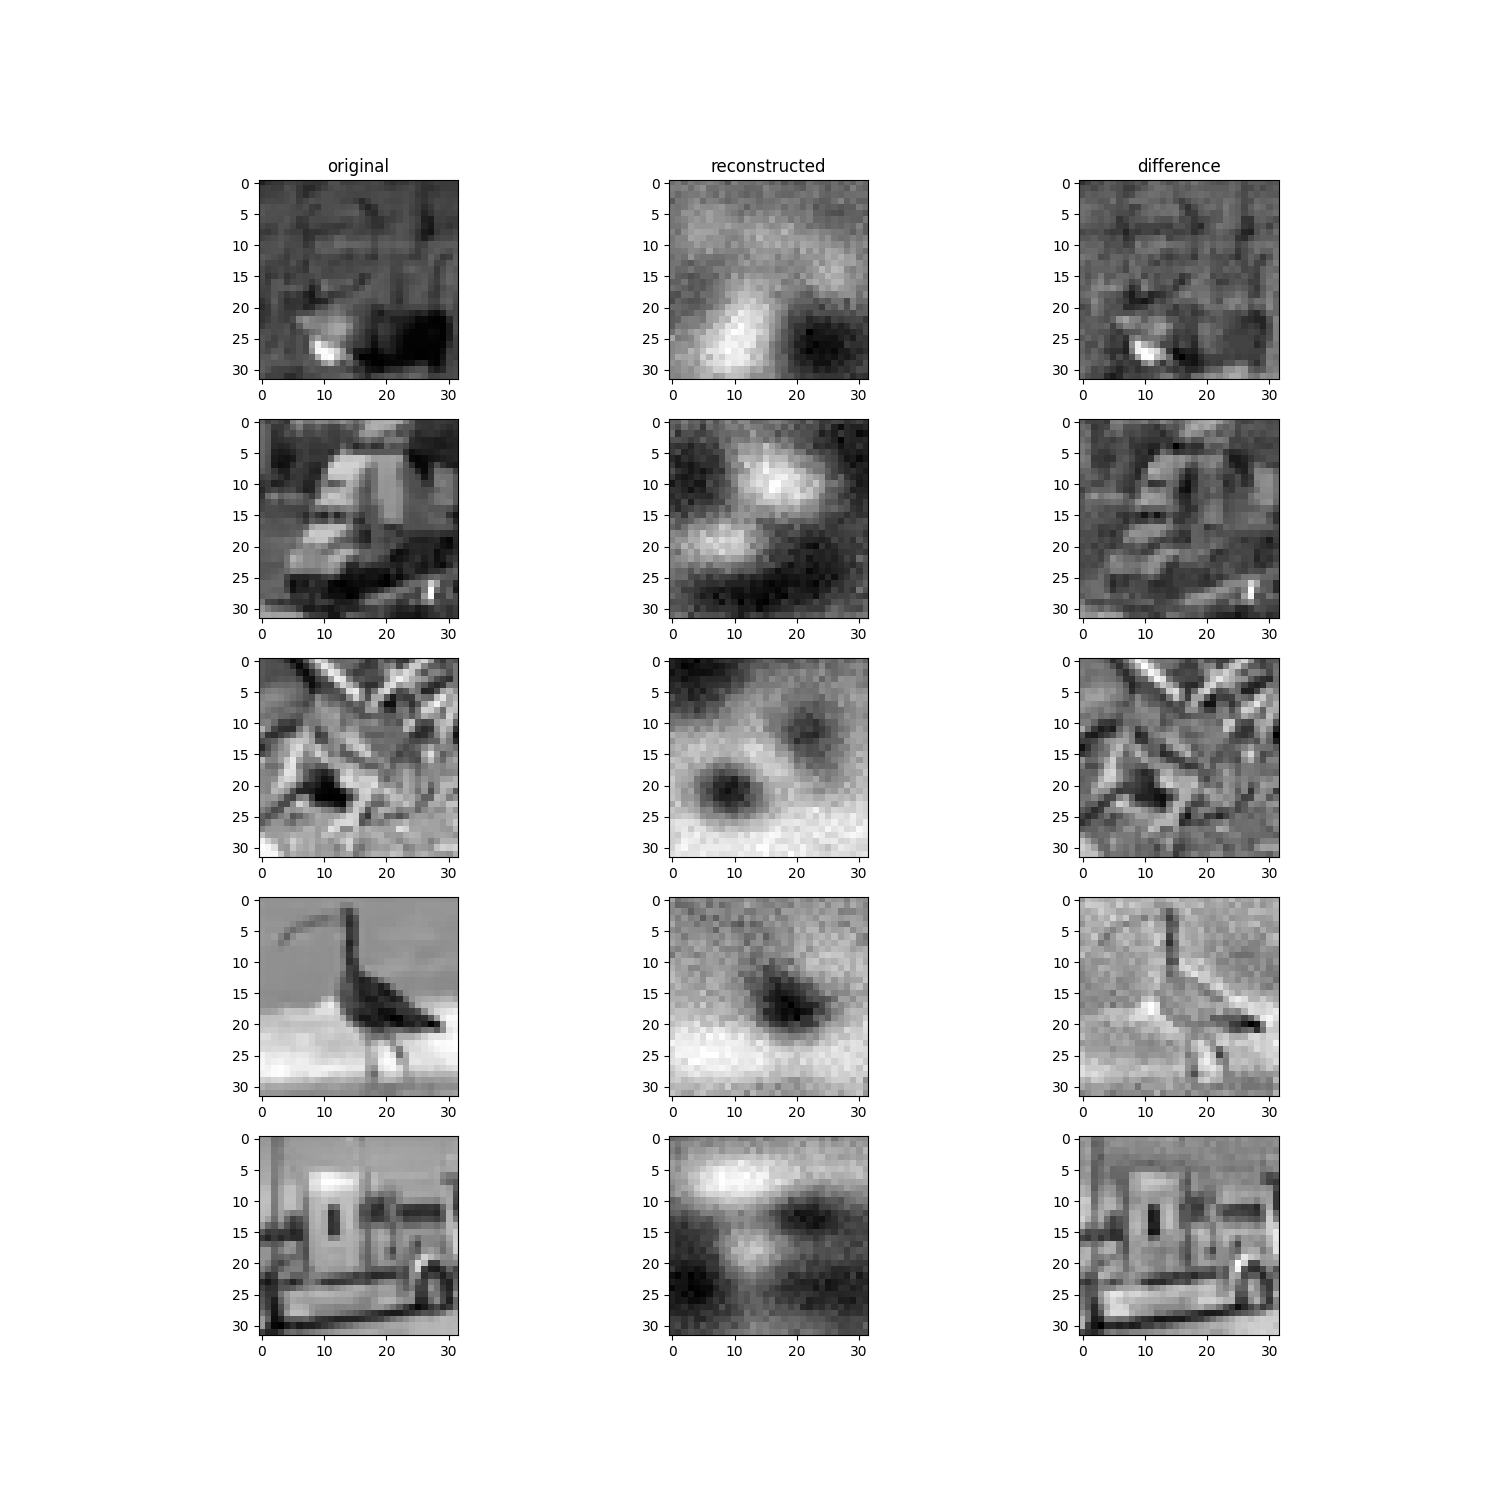
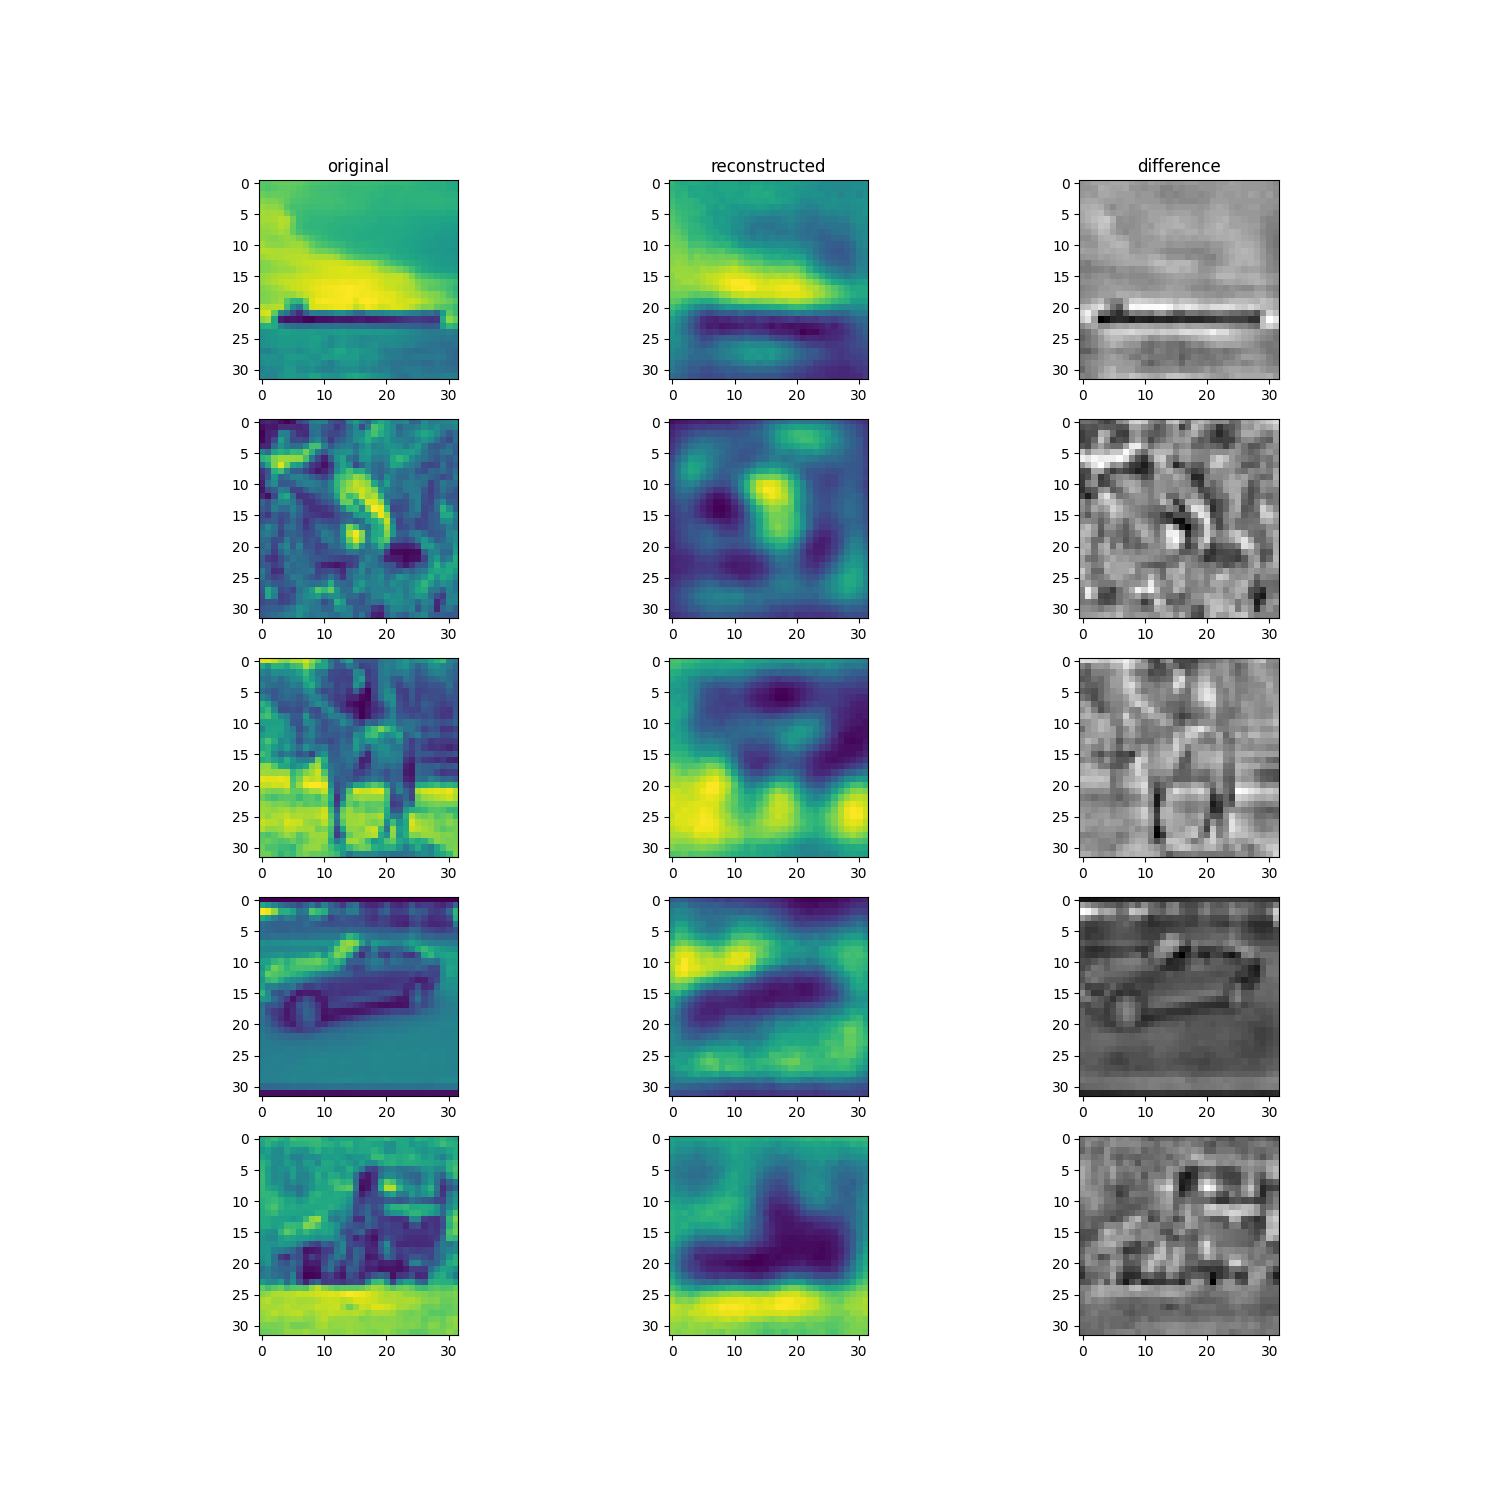
zscore, different ds differentiation

Changed region(s): [[0.4293, 0.1227, 0.5827, 0.8893], [0.1533, 0.1227, 0.3067, 0.8893], [0.7053, 0.1227, 0.8587, 0.8893]]

diff --git a/simple_autoencoder/train.py b/simple_autoencoder/train.py
@@ -10,17 +10,18 @@ import jax.numpy as jnp
 import optax
 import numpy as np
 from tqdm import tqdm
-from nsd_data import get_train_test_datasets, get_batches, get_train_test_mnist, get_train_test_cifar100, get_train_test_stl
+from nsd_data import get_train_test_datasets, get_batches, get_train_test_mnist, get_train_test_cifar10
 from visualisations import plot_losses, plot_original_reconstruction
 from flax.training import train_state
 from typing import Any
 
+
 class TrainState(train_state.TrainState):
     batch_stats: Any
 
-def create_train_state(key, init_data, latent_dim, fmri_voxels, learning_rate):
+def create_train_state(key, init_data, latent_dim, fmri_voxels, ds, learning_rate):
     """Creates initial `TrainState`."""
-    model_cls = models.model(latent_dim, fmri_voxels)
+    model_cls = models.model(latent_dim, fmri_voxels, dataset=ds)
     variables = model_cls.init(
         {'params': key, 'dropout': key},
         init_data,
@@ -38,7 +39,7 @@ def compute_metrics(recon_x, x, latent_vec ):
     mse_loss = jnp.mean(jnp.square(recon_x - x))
     return {'loss': mse_loss }
 
-def train_step(state, batch, key, latent_dim, l1_coefficient=0.01):
+def train_step(state, batch, key, latent_dim, ds, l1_coefficient=0.01):
     key, dropout_rng = jax.random.split(key)
     """Performs a single training step updating model parameters based on batch data.
 
@@ -53,10 +54,9 @@ def train_step(state, batch, key, latent_dim, l1_coefficient=0.01):
         Tuple containing updated state and training loss for the batch
     """
     def loss_fn(params):
-
         fmri_voxels = batch.shape[1]
         variables = {'params': params, 'batch_stats': state.batch_stats}
-        (recon_x, latent_vec), new_model_state = models.model(latent_dim, fmri_voxels).apply(
+        (recon_x, latent_vec), new_model_state = models.model(latent_dim, fmri_voxels, dataset=ds).apply(
             variables, batch, dropout_rng, training=True, mutable=['batch_stats'], rngs={'dropout': dropout_rng}
         )
         mse_loss = jnp.mean(jnp.square(recon_x - batch))
@@ -70,10 +70,10 @@ def train_step(state, batch, key, latent_dim, l1_coefficient=0.01):
     return state, loss
 
 
-def evaluate_fun(state, loader, key, config, validation_step, num_steps=2):
+def evaluate_fun(state, evaluation_batch, key, config):
     key, dropout_rng = jax.random.split(key)
     """Evaluation function that computes metrics on batches.
-       Evaluates 2 batches by default (during training),
+       Evaluates 1 batch by default (during training),
        while evaluating the entire dataset during testing.
 
     Args:
@@ -87,20 +87,22 @@ def evaluate_fun(state, loader, key, config, validation_step, num_steps=2):
         List of tuples containing (metrics, data, latent vectors) for each evaluation step
         Average of the losses
     """
-    def eval_model(batch ):
+    def eval_model(batch):
         variables = {'params': state.params, 'batch_stats': state.batch_stats}
-        reconstruction, latent_vecs = models.model(config.latent_dim, batch.shape[1]).apply(
+        reconstruction, latent_vecs = models.model(config.latent_dim, batch.shape[1], dataset=config.ds).apply(
             variables, batch, dropout_rng=dropout_rng, training=False, mutable=False)
         metrics = compute_metrics(reconstruction, batch, latent_vecs )
         return metrics, (batch, reconstruction), latent_vecs
 
-    evaluations = []
-    for j in range(num_steps):
-        batch = loader[validation_step:validation_step+config.batch_size, :]
-        # fmri_voxels = batch.shape[1]
-        eval = eval_model(batch )
-        evaluations.append(eval)
-    return evaluations
+    eval = eval_model(evaluation_batch)
+    return eval
+    # evaluations = []
+    # for j in range(num_steps):
+    #     batch = loader[validation_step:validation_step+config.batch_size, :]
+    #     # fmri_voxels = batch.shape[1]
+    #     eval = eval_model(batch )
+    #     evaluations.append(eval)
+    # return evaluations
 
 def train_and_evaluate(config):
     """Train and evaulate pipeline."""
@@ -108,14 +110,13 @@ def train_and_evaluate(config):
     rng, init_key = random.split(rng)
 
     log('Initializing dataset...', 'TRAIN')
+    rate_reconstruction_printing = 1
     if config.ds == 'fmri':
-        train_ds, test_ds = get_train_test_datasets(subject=3, roi_class='floc-bodies', hem='lh')
+        train_ds, validation_ds = get_train_test_datasets(subject=3, roi_class=config.roi_class, hem=config.hem)
     elif config.ds == 'mnist':
         train_ds, validation_ds = get_train_test_mnist()
-    elif config.ds == 'coco':
-        train_ds, validation_ds = get_train_test_stl()
     else:
-        train_ds, validation_ds = get_train_test_cifar100()
+        train_ds, validation_ds = get_train_test_cifar10()
 
     print(f"training ds shape: {train_ds.shape}")
     print(f"test ds shape: {validation_ds.shape}")
@@ -133,7 +134,7 @@ def train_and_evaluate(config):
     init_data = jnp.ones((config.batch_size, fmri_voxels), jnp.float32)
 
     log('Initializing state...', 'TRAIN')
-    state = create_train_state(init_key, init_data, config.latent_dim, fmri_voxels, config.learning_rate)
+    state = create_train_state(init_key, init_data, config.latent_dim, fmri_voxels, config.ds, config.learning_rate)
 
     log(f'Calculating training steps per epochs (train_size: {train_size})...', 'TRAIN')
     steps_per_epoch = train_size // int(config.batch_size)
@@ -146,51 +147,49 @@ def train_and_evaluate(config):
     train_losses = []
     eval_losses = []
 
-    print("Train data stats:", train_ds.min(), train_ds.max(), train_ds.mean())
-    print("Validation data stats:", validation_ds.min(), validation_ds.max(), validation_ds.mean())
+    print("Train data stats:", train_loader.min(), train_loader.max(), train_loader.mean())
+    print("Validation data stats:", validation_loader.min(), validation_loader.max(), validation_loader.mean())
 
     for epoch in range(config.num_epochs):
         # log(f'Epoch {epoch + 1}/{config.num_epochs}', 'TRAIN LOOP')
         rng, epoch_key = jax.random.split(rng)
         validation_step = 0
+        val_loss = 100
 
         # Training loop
         for step in (pbar := tqdm(range(0, len(train_loader), config.batch_size), total=steps_per_epoch)):
             # if step >= steps_per_epoch:
             #     break
 
-            batch = train_ds[step:step+config.batch_size, :]
-            state, loss = train_step(state, batch, epoch_key, config.latent_dim)
+            batch = train_loader[step:step+config.batch_size]
+            state, loss = train_step(state, batch, epoch_key, config.latent_dim, config.ds)
 
-            # save the loss every 5% of steps
-            if step % (steps_per_epoch // 50) == 0:
-                # add training loss
+            if step % (steps_per_epoch // 5) == 0:
                 train_losses.append(loss)
+                validation_batch = validation_loader[validation_step:validation_step+config.batch_size]
+                validation_step =+ config.batch_size
 
-                rng, key = jax.random.split(rng)
-                evaluations = evaluate_fun(
-                    state, validation_loader, epoch_key, config, validation_step, num_steps=1
-                )
-                validation_step += config.batch_size
+                metrics, (evaluated_batches, reconstructions), latent_vecs = evaluate_fun(state, validation_batch, epoch_key, config)
 
-                # add validation losses
-                eval_tmp_losses = [eval[0]['loss'] for eval in evaluations]
-                eval_losses.extend(eval_tmp_losses)
+                eval_losses.append(metrics['loss'])
+                val_loss = metrics['loss']
 
-                # only plotting the first evaluation
-                metrics, (evaluated_batches, reconstructions), latent_vecs = evaluations[0]
-                del evaluations
+            #     # add validation losses
+            #     # eval_tmp_losses = evaluations[0]['loss']
+            #     # eval_losses.append(eval_tmp_losses)
 
-            pbar.set_description(f"epoch {epoch} loss: {str(loss)[:5]}")
+            #     # only plotting the first evaluation
+            #     # metrics, (evaluated_batches, reconstructions), latent_vecs = evaluations[0]
+            #     # del evaluations
+
+            pbar.set_description(f"epoch {epoch} loss: {str(loss)[:5]} val_loss: {str(val_loss)[:5]}")
 
         # once every 10 epochs, plot the original and reconstructed images of the last batch
-        if epoch % 10 == 0:
-            batch_index = 0
-            evaluations = evaluate_fun(
-                state, validation_loader, epoch_key, config, batch_index, num_steps=1
-            )
-            metrics, (evaluated_batches, reconstructions), latent_vecs = evaluations[0]
-            del evaluations
+        if epoch % rate_reconstruction_printing == 0:
+            validation_batch = validation_loader[validation_step:validation_step+config.batch_size]
+            validation_step =+ config.batch_size
+
+            metrics, (evaluated_batches, reconstructions), latent_vecs = evaluate_fun(state, validation_batch, epoch_key, config)
             plot_original_reconstruction(evaluated_batches, reconstructions, config.ds, epoch)
 
         key1, key2 = random.split(rng)

diff --git a/simple_autoencoder/nsd_data.py b/simple_autoencoder/nsd_data.py
@@ -66,8 +66,15 @@ def get_train_test_indices(subject=3):
     train_idxs, test_idxs = train_test_split(np.arange(len(subject_images)), test_size=0.1, random_state=42)
     return train_idxs, test_idxs
 
-def normalise(_max, _min, data):
-   return jnp.array((data - _min) / (_max - _min))
+# def normalise(_max, _min, data):
+#    return jnp.array((data - _min) / (_max - _min))
+
+def z_score(data):
+    print(data.min())
+    normalised = jnp.array((data - data.mean()) / data.std())
+    print(normalised.min())
+    return normalised
+
 
 def get_train_test_datasets(subject=3, roi_class='floc-bodies', hem='all') -> tuple:
     """Get training and test fMRI datasets for a specified subject and ROI class.
@@ -112,18 +119,23 @@ def get_train_test_datasets(subject=3, roi_class='floc-bodies', hem='all') -> tu
     test_lh_fmri = test_lh_fmri[:, roi_lh]
     test_rh_fmri = test_rh_fmri[:, roi_rh]
 
-    _max = max(train_lh_fmri.max(), train_rh_fmri.max(), test_lh_fmri.max(), test_rh_fmri.max())
-    _min = min(train_lh_fmri.min(), train_rh_fmri.min(), test_lh_fmri.min(), test_rh_fmri.min())
+    # _max = max(train_lh_fmri.max(), train_rh_fmri.max(), test_lh_fmri.max(), test_rh_fmri.max())
+    # _min = min(train_lh_fmri.min(), train_rh_fmri.min(), test_lh_fmri.min(), test_rh_fmri.min())
 
     if hem == 'all':
         train_all_fmri = np.concatenate([train_lh_fmri, train_rh_fmri], axis=1)
         test_all_fmri = np.concatenate([test_lh_fmri, test_rh_fmri], axis=1)
-        return normalise(_max, _min, train_all_fmri), normalise(_max, _min, test_all_fmri)
-        # return train_all_fmri, test_all_fmri
+        return z_score(train_all_fmri), z_score(test_all_fmri)
+        # return normalise(_max, _min, train_all_fmri), normalise(_max, _min, test_all_fmri)
+
     elif hem == 'lh':
-        return normalise(_max, _min, train_lh_fmri), normalise(_max, _min, test_lh_fmri)
+        return z_score(train_lh_fmri), z_score(test_lh_fmri)
+        # return normalise(_max, _min, train_lh_fmri), normalise(_max, _min, test_lh_fmri)
+
     elif hem == 'rh':
-        return normalise(_max, _min, train_rh_fmri), normalise(_max, _min, test_rh_fmri)
+        return z_score(train_rh_fmri), z_score(test_rh_fmri)
+        # return normalise(_max, _min, train_rh_fmri), normalise(_max, _min, test_rh_fmri)
+
     else:
         raise ValueError(f"Invalid hemisphere selection: {hem}. Must be 'all', 'lh', or 'rh'.")
 
@@ -132,36 +144,24 @@ def get_train_test_mnist():
     mnist = tfds.load("mnist", split='train')
     x_data = jnp.array([x["image"] for x in tfds.as_numpy(mnist)]).reshape(-1, 28*28)
     x_data = x_data / 255.0
-    print(x_data.shape)
+    print(f"mnist shape: {x_data.shape}")
     train, test = train_test_split(np.arange(len(x_data)), test_size=0.2, random_state=42)
-    print(len(train), len(test))
+    print(f"train_ds length: {len(train)}, test_ds {len(test)}")
     return x_data[train], x_data[test]
 
-def get_train_test_cifar100():
+def get_train_test_cifar10():
     def rgb2gray(rgb):
         return np.dot(rgb[...,:3], [0.2989, 0.5870, 0.1140])
 
     # load the mnist dataset from tfds
-    mnist = tfds.load("cifar10", split='train')
-    x_data = jnp.array([rgb2gray(x["image"]) for x in tfds.as_numpy(mnist)]).reshape(-1, 32*32)
+    cifar = tfds.load("cifar10", split='train')
+    x_data = jnp.array([rgb2gray(x["image"]) for x in tfds.as_numpy(cifar)]).reshape(-1, 32*32)
     x_data = x_data / 255.0
-    print(x_data.shape)
+    print(f"cifar shape: {x_data.shape}")
     train, test = train_test_split(np.arange(len(x_data)), test_size=0.2, random_state=42)
-    print(len(train), len(test))
+    print(f"train_ds length: {len(train)}, test_ds {len(test)}")
     return x_data[train], x_data[test]
 
-def get_train_test_stl():
-    def rgb2gray(rgb):
-        return np.dot(rgb[...,:3], [0.2989, 0.5870, 0.1140])
-
-    # load the mnist dataset from tfds
-    mnist = tfds.load("stl10", split='train')
-    x_data = jnp.array([rgb2gray(x["image"]) for x in tfds.as_numpy(mnist)]).reshape(-1, 96*96)
-    x_data = x_data / 255.0
-    print(x_data.shape)
-    train, test = train_test_split(np.arange(len(x_data)), test_size=0.2, random_state=42)
-    print(len(train), len(test))
-    return x_data[train], x_data[test]
 
 def get_batches(fmri, key, batch_size: int):
     """Create batches of fMRI data with the specified batch size.

diff --git a/simple_autoencoder/models.py b/simple_autoencoder/models.py
@@ -37,6 +37,7 @@ class Decoder(nn.Module):
 
   fmri_dim: int
   dropout_rate: float = 0.1
+  dataset: str = 'fmri'
 
   @nn.compact
   def __call__(self, z, dropout_rng, training: bool):
@@ -56,7 +57,14 @@ class Decoder(nn.Module):
 
     # final layer
     z = nn.Dense(self.fmri_dim, name=f'fc{len(layers_div)}')(z)
-    z = nn.sigmoid(z)
+
+    if self.dataset == 'fmri':
+        # ??
+        # z = nn.relu(z)
+        pass
+
+    else:
+        z = nn.sigmoid(z)
 
     return z
 
@@ -67,15 +75,21 @@ class AE(nn.Module):
   latent_dim: int #= 3000
   fmri_dim: int # = 3633 #7266
   dropout_rate: float = 0.1
+  dataset: str = 'fmri'
 
   def setup(self):
     self.encoder = Encoder(self.latent_dim, self.fmri_dim, self.dropout_rate)
-    self.decoder = Decoder(self.fmri_dim, self.dropout_rate)
+    self.decoder = Decoder(self.fmri_dim, self.dropout_rate, self.dataset)
 
   def __call__(self, x, dropout_rng, training: bool = True):
     latent_vec = self.encoder(x, dropout_rng=dropout_rng, training=training)
     recon_x = self.decoder(latent_vec, dropout_rng=dropout_rng, training=training)
     return recon_x, latent_vec
 
-def model(latent_dim, fmri_dim, dropout_rate=0.1):
-  return AE(latent_dim=latent_dim, fmri_dim=fmri_dim, dropout_rate=dropout_rate)
+  def encode(self, x, dropout_rng):
+    latent_vec = self.encoder(x, dropout_rng=dropout_rng, training=False)
+    return latent_vec
+
+
+def model(latent_dim, fmri_dim, dataset='fmri', dropout_rate=0.1):
+  return AE(latent_dim=latent_dim, fmri_dim=fmri_dim, dataset=dataset, dropout_rate=dropout_rate)

diff --git a/simple_autoencoder/visualisations.py b/simple_autoencoder/visualisations.py
@@ -1,8 +1,5 @@
 import matplotlib.pyplot as plt
 import numpy as np
-import seaborn as sns
-from logger import log
-
 
 
 def plot_results_epoch(batch, reconstructions, latent_vec, epoch, step):
@@ -95,14 +92,14 @@ def plot_latent_space(latent_vectors, categories):
 def plot_original_reconstruction(originals, reconstructions, dataset, epoch ):
     ds_sizes = {
         'mnist': (28, 28),
-        'cifar100': (32, 32),
+        'cifar10': (32, 32),
         'fmri': (100, 32),
-        'stl': (96, 96)
     }
     fig,axs = plt.subplots(5, 3, figsize=(15,15))
     axs[0, 0].set_title('original')
     axs[0, 1].set_title('reconstructed')
     axs[0, 2].set_title('difference')
+    print(originals.shape)
 
     # plot the first 5 samples of the first batch evaluated
     h, w = ds_sizes[dataset]
@@ -110,8 +107,8 @@ def plot_original_reconstruction(originals, reconstructions, dataset, epoch ):
         print(f"shape of original is {originals[i].shape}")
         original = originals[i][:h*w].reshape(h, w) #[:3600].reshape(36, 100)
         reconstruction = reconstructions[i][:h*w].reshape(h, w)
-        axs[i, 0].imshow(original, cmap='gray')
-        axs[i, 1].imshow(reconstruction, cmap='gray')
+        axs[i, 0].imshow(original, cmap='viridis')
+        axs[i, 1].imshow(reconstruction, cmap='viridis')
         axs[i, 2].imshow(np.floor(original*100)/100 - np.floor(reconstruction*100)/100, cmap='gray')
 
     fig.savefig(f'./results/epoch_{epoch}.png')

diff --git a/simple_autoencoder/ae_main.py b/simple_autoencoder/ae_main.py
@@ -22,9 +22,9 @@ def main(argv):
     parser.add_argument("--latent_dim", dest='config.latent_dim', type=int, default=30)
     parser.add_argument("--batch_size", dest='config.batch_size', type=int, default=30)
     parser.add_argument("--num_epochs", dest='config.num_epochs', type=int, default=15)
-    parser.add_argument("--roi", dest='config.roi', default='floc-bodies') # floc-bodies, ...
+    parser.add_argument("--roi_class", dest='config.roi_class', default='floc-bodies') # floc-bodies, ...
     parser.add_argument("--hem", dest='config.hem', default='lh') # lh, rh, all
-    parser.add_argument("--ds", dest='config.ds', default='fmri') # mnist, cifar100, fmri
+    parser.add_argument("--ds", dest='config.ds', default='fmri') # mnist, cifar10, fmri
     user_provided_args, default_args = OmegaConf.from_argparse(parser)
 
     log(user_provided_args, "MAIN")
